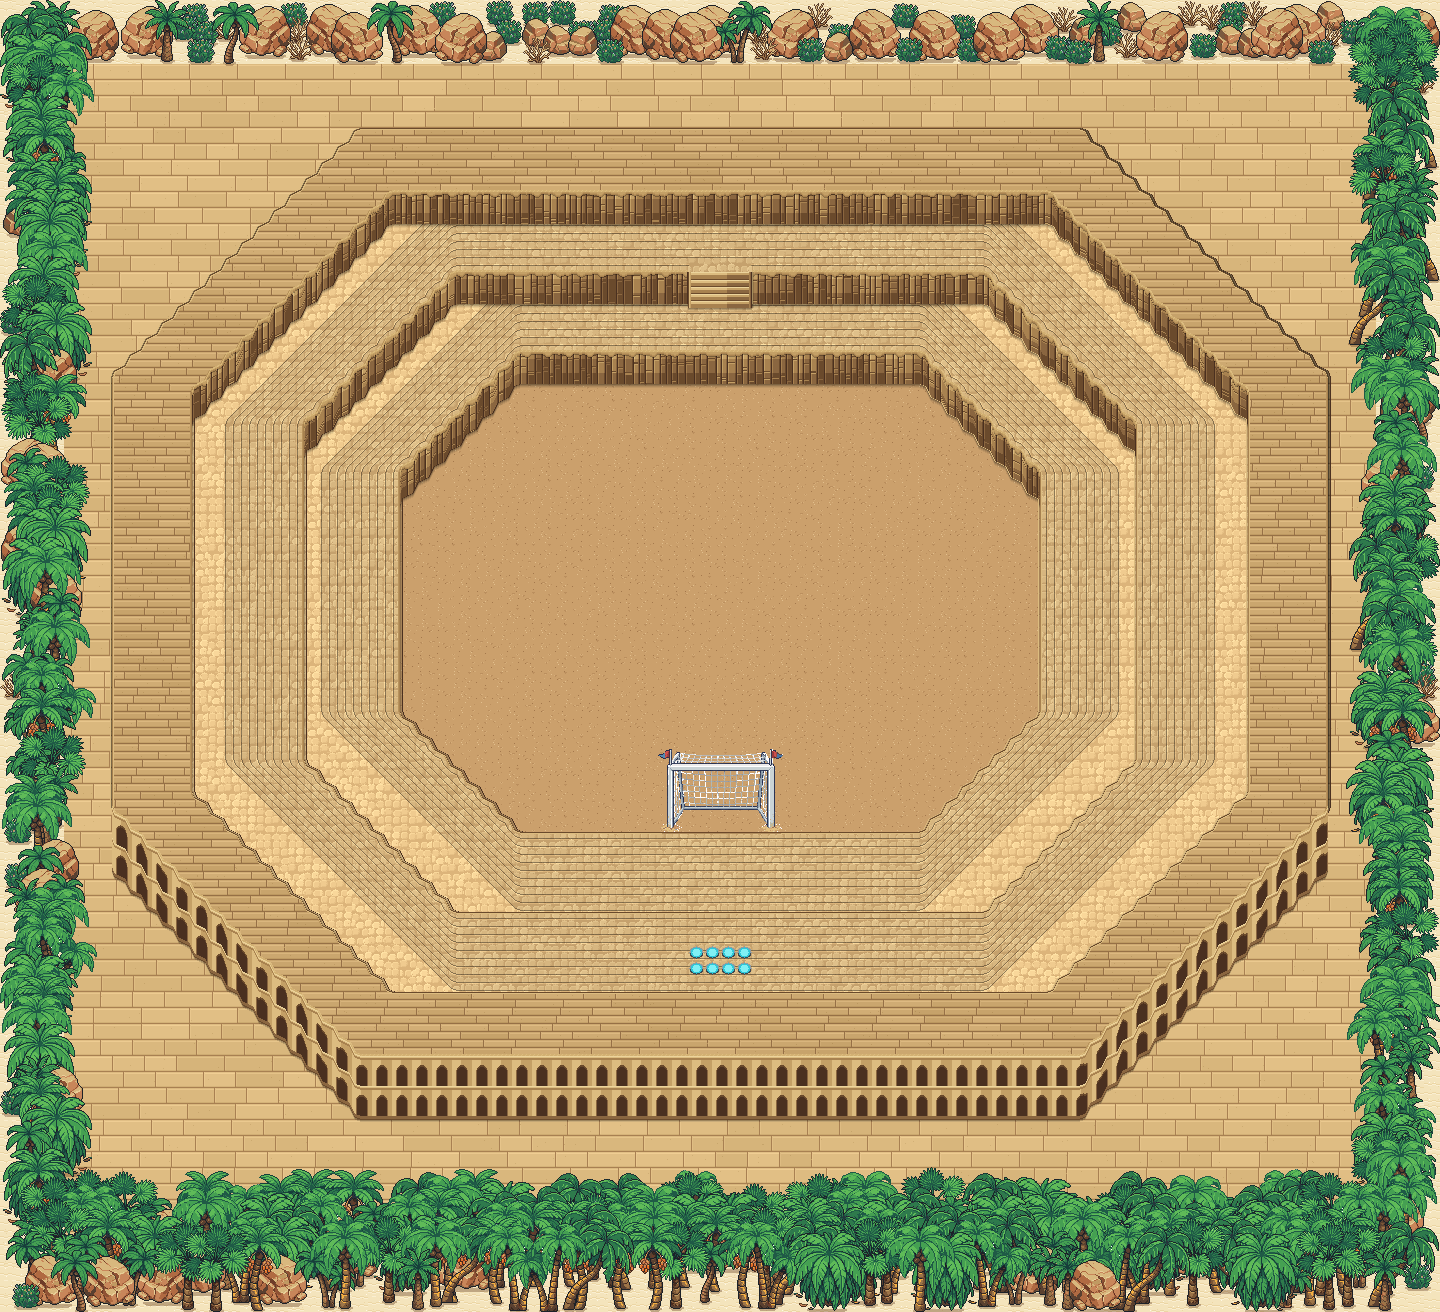
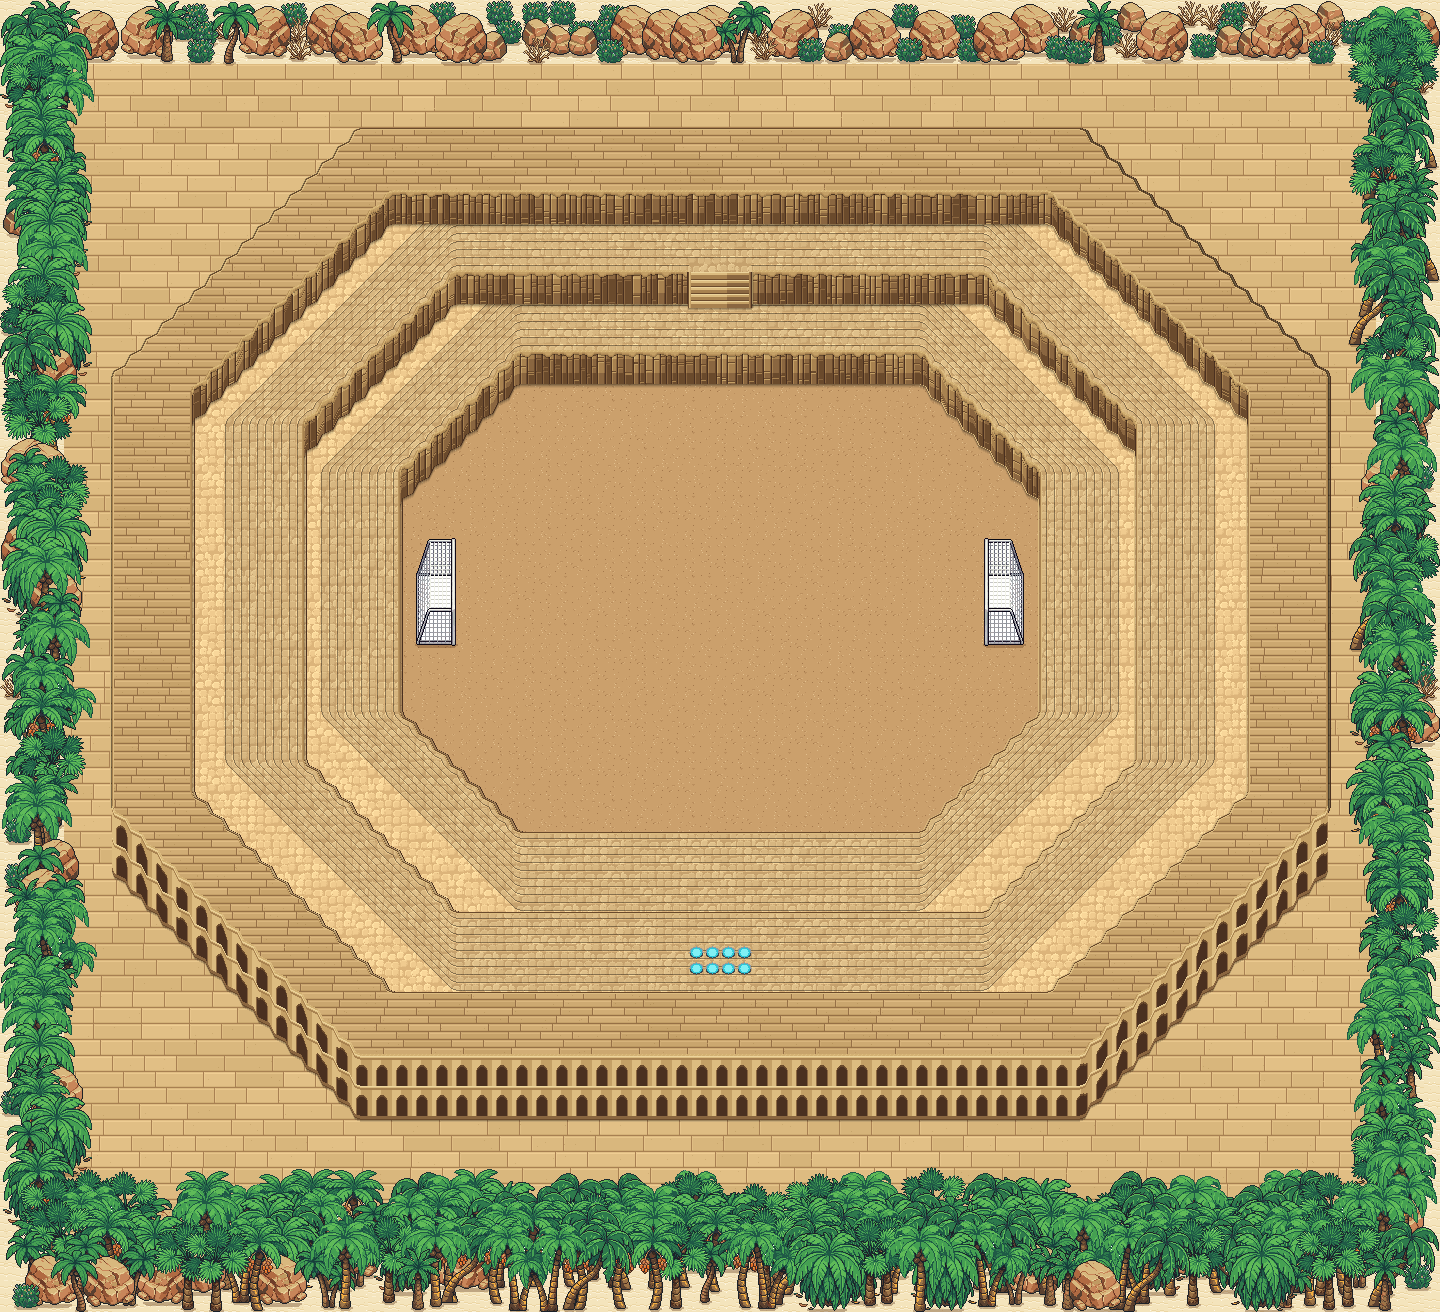
Karte 67: zwei senkrechte Fussballtore links/rechts in der Arena (PixelLab k67_tor_seite2, gespiegelt)
Claude-Session: https://claude.ai/code/session_01SaoYHKhnro4LFcPJqjaPsq

Changed region(s): [[0.4375, 0.5625, 0.5625, 0.625], [0.6562, 0.4062, 0.7188, 0.5], [0.2812, 0.4062, 0.3438, 0.5]]

diff --git a/tools/karte67_objekte.py b/tools/karte67_objekte.py
@@ -22,7 +22,7 @@ D = {'saeule': 'karte67/rom/00.png', 'schale': 'karte67/rom/01.png', 'standarte'
      'statue': 'karte67/rom/03.png', 'waffen': 'karte67/rom/04.png', 'amphoren': 'karte67/rom/05.png',
      'thron': 'karte67/rom/06.png', 'tisch': 'karte67/rom/07.png', 'ruestung': 'karte67/rom/08.png',
      'schild': 'karte67/rom/09.png', 'brunnen': 'karte67/rom/10.png', 'truhe': 'karte67/rom/11.png',
-     'fussballtor': 'karte67/tor/00.png', 'balliste': 'karte67/rom/12.png', 'bogen': 'karte67/rom/13.png', 'rauch': 'karte67/rom/14.png'}
+     'fussballtor': 'karte67/tor_seite2/00_ohne_fahnen.png', 'balliste': 'karte67/rom/12.png', 'bogen': 'karte67/rom/13.png', 'rauch': 'karte67/rom/14.png'}
 # Nutzer: Palette wie die Server-Wueste (Karte 03) - Palmenguertel auf Duenensand, Felsen und duerre Buesche
 for k_, f_ in (('p00', 'palmen/00'), ('p01', 'palmen/01'), ('p02', 'palmen/02'), ('p03', 'palmen/03'), ('p06', 'palmen/06'),
                ('p08', 'palmen/08'), ('m00', 'mittel/00'), ('m01', 'mittel/01'), ('m02', 'mittel/02'), ('fels', 'mittel/07'),
@@ -139,9 +139,16 @@ def main():
         return False
 
     # Nutzer: innen (Arena und Tribuene) keine Objekte - Kampfarena abgeschottet, Tribuene frei begehbar
-    # Nutzer: grosses Fussballtor unten (Suedende der Arena), mittig auf der Achse, Fuss in der letzten Arenareihe
-    unten = max(y for y in range(rows) if cls[y][CX] == 'a')
-    setze('fussballtor', achse, unten * T + T - 1, {'fest_pos': True, 'nur_kontakt': True}, pruefen=False)
+    # Nutzer: zwei senkrechte Fussballtore links und rechts (Spielfeld waagerecht), Torbreite nord-sued, Oeffnung zur
+    # Mitte, gespiegelt an der Achse; senkrecht mittig auf der Querachse der Arena, eine Kachel Abstand zum Rand
+    links = min(x for x in range(cols) if cls[CY][x] == 'a')
+    th = 108
+    fy = CY * T + th // 2 - 1
+    cx_w = (links + 1) * T + 20
+    setze('fussballtor', cx_w, fy, {'fest_pos': True, 'nur_kontakt': True, 'ebene': 0}, False, pruefen=False)
+    setze('fussballtor', 2 * achse - cx_w, fy, {'fest_pos': True, 'nur_kontakt': True, 'ebene': 0}, True, pruefen=False)
+    for o in objekte[-2:]:
+        o['ebene'] = 1
     # Nutzer: auch aussen keine Objekte (Fackeln, Saeulen, Brunnen usw. entfernt) - nur der Palmenguertel
 
     # ---------------- Baumguertel (Wiese 'n' am Rand): dicht, nicht begehbar, Luecken mit Bueschen

diff --git a/tools/pixellab_objekte.py b/tools/pixellab_objekte.py
@@ -2589,6 +2589,22 @@ OBJEKTGRUPPEN_K21 = {   # Karte 21 (Digi-Egg Valley), Stil wie Karte 20 / Karte 
         'big standing soccer goal frame, white round posts and crossbar, white mesh net with visible square grid, '
         'net slanting back to the ground, ' + FR14,
     ]},
+    'k67_tor_seite': {'size': 128, 'freie_farben': True, 'items': [   # Karte 67: Tore links/rechts, Breite senkrecht (Nutzer)
+        'soccer goal seen from the side in a top-down rpg view, the goal is tall and narrow, its width runs vertically '
+        'from top to bottom, white posts at the top and bottom, white crossbar, the opening faces right, white net '
+        'stretched out to the left, pixel art, high top-down 3/4 view',
+        'vertical soccer goal for the left end of a top-down football pitch, tall narrow white goal frame with the '
+        'mouth facing right and the net bulging to the left, seen from above at an angle, pixel art',
+        'top-down view of a white football goal rotated 90 degrees, goal line vertical, two posts one above the other, '
+        'net box extending to the left, open side facing right, pixel art game asset',
+    ]},
+    'k67_tor_seite2': {'size': 128, 'freie_farben': True, 'items': [   # zweiter Versuch: ohne Diagonalansicht
+        'soccer goal at the left end of a football pitch in a classic 16-bit top-down rpg, axis-aligned, no diagonal, '
+        'no isometric: tall narrow rectangle, white post at the top and white post at the bottom joined by a vertical white '
+        'crossbar on the right side, white net grid filling the rectangle to the left, symmetric top to bottom, pixel art',
+        'axis-aligned overhead view of a white soccer goal rotated 90 degrees, symmetric top and bottom, goal mouth on '
+        'the right edge, square net grid behind it on the left, posts cast a small shadow, no perspective tilt, pixel art',
+    ]},
     'k54_ranke96': {'size': 96, 'freie_farben': True, 'items': [
         'huge thick glossy bright red jelly tentacle rising from the ground and curving over, made of fused bubbles, round bubble tip, wet white highlights, ' + FR14,
         'tall twisted pair of glossy crimson jelly tentacles intertwined, bubbly texture, wet highlights, ' + FR14,
